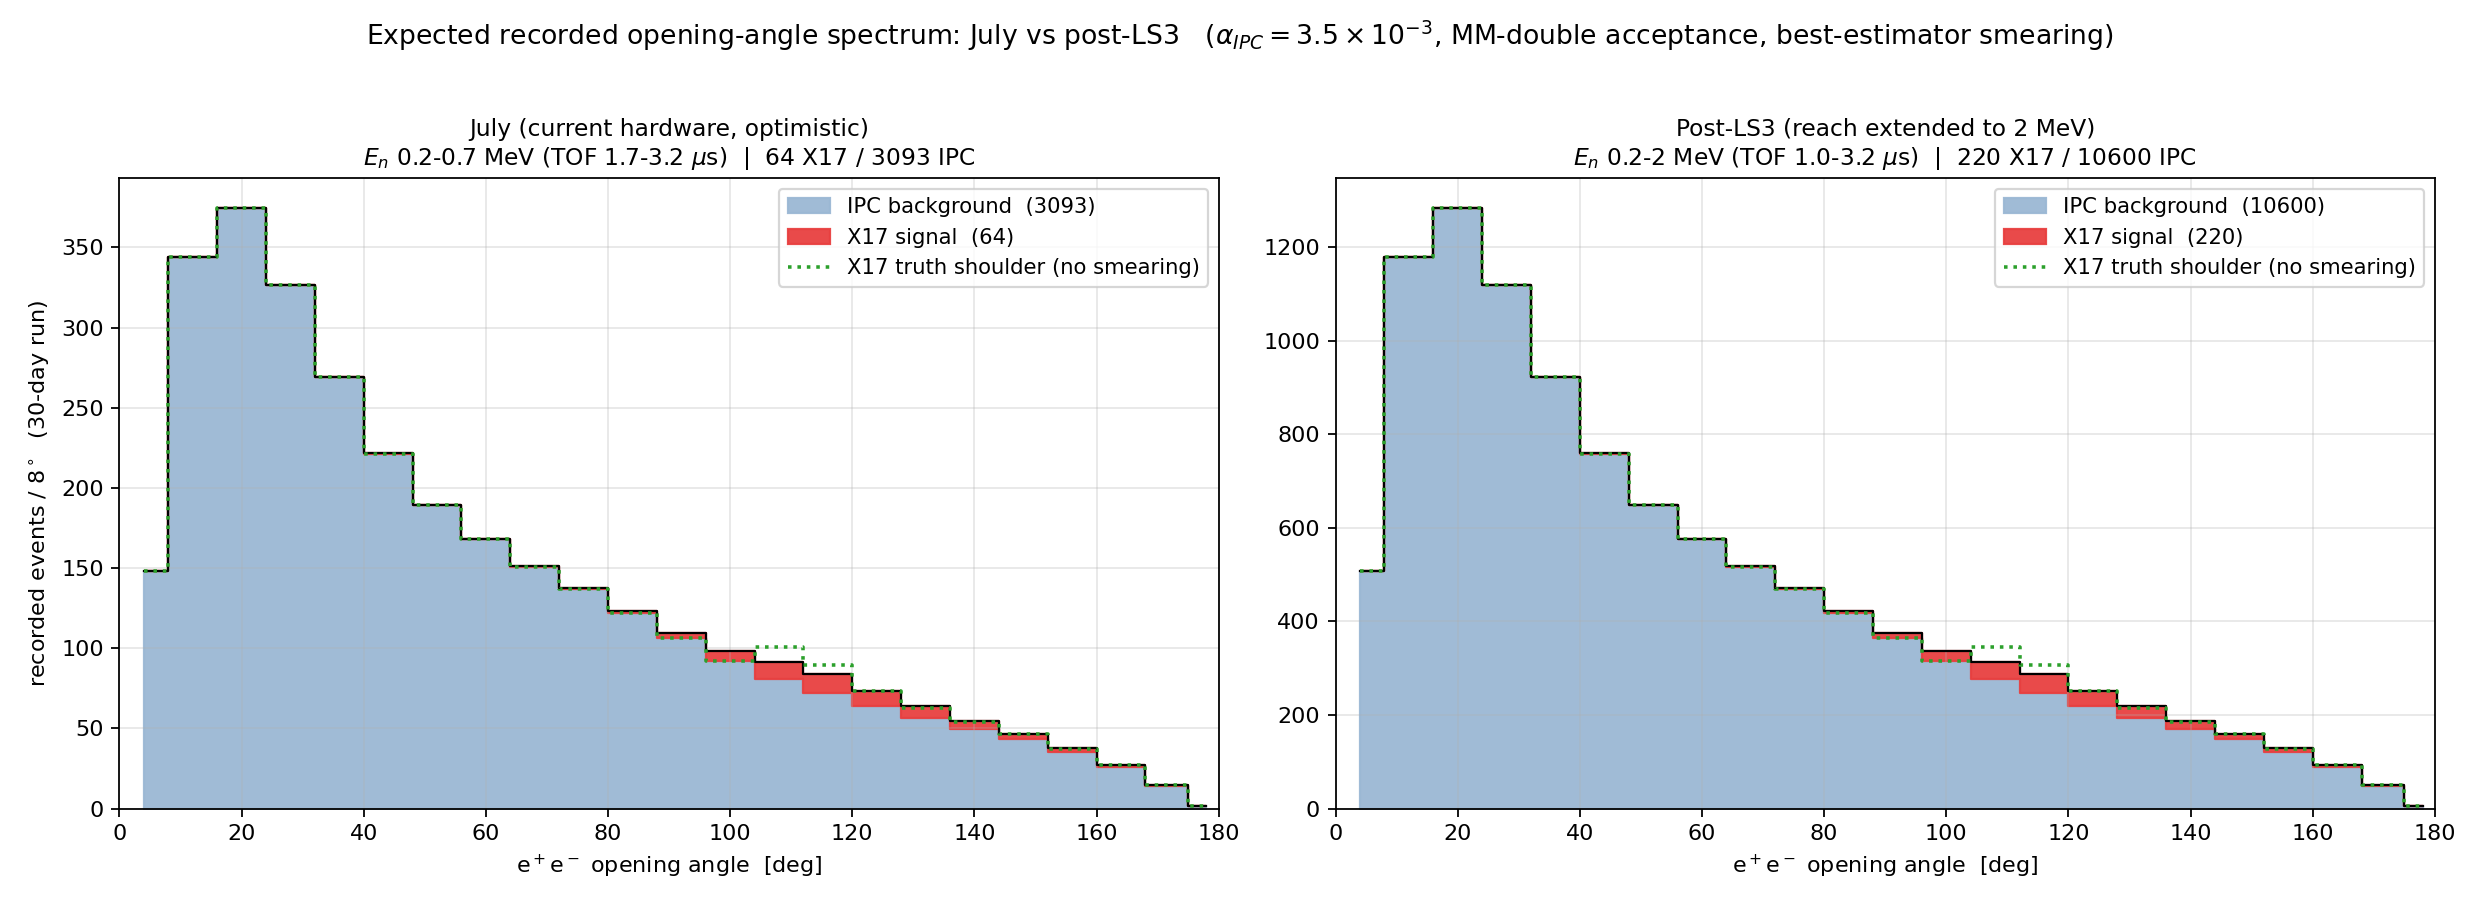
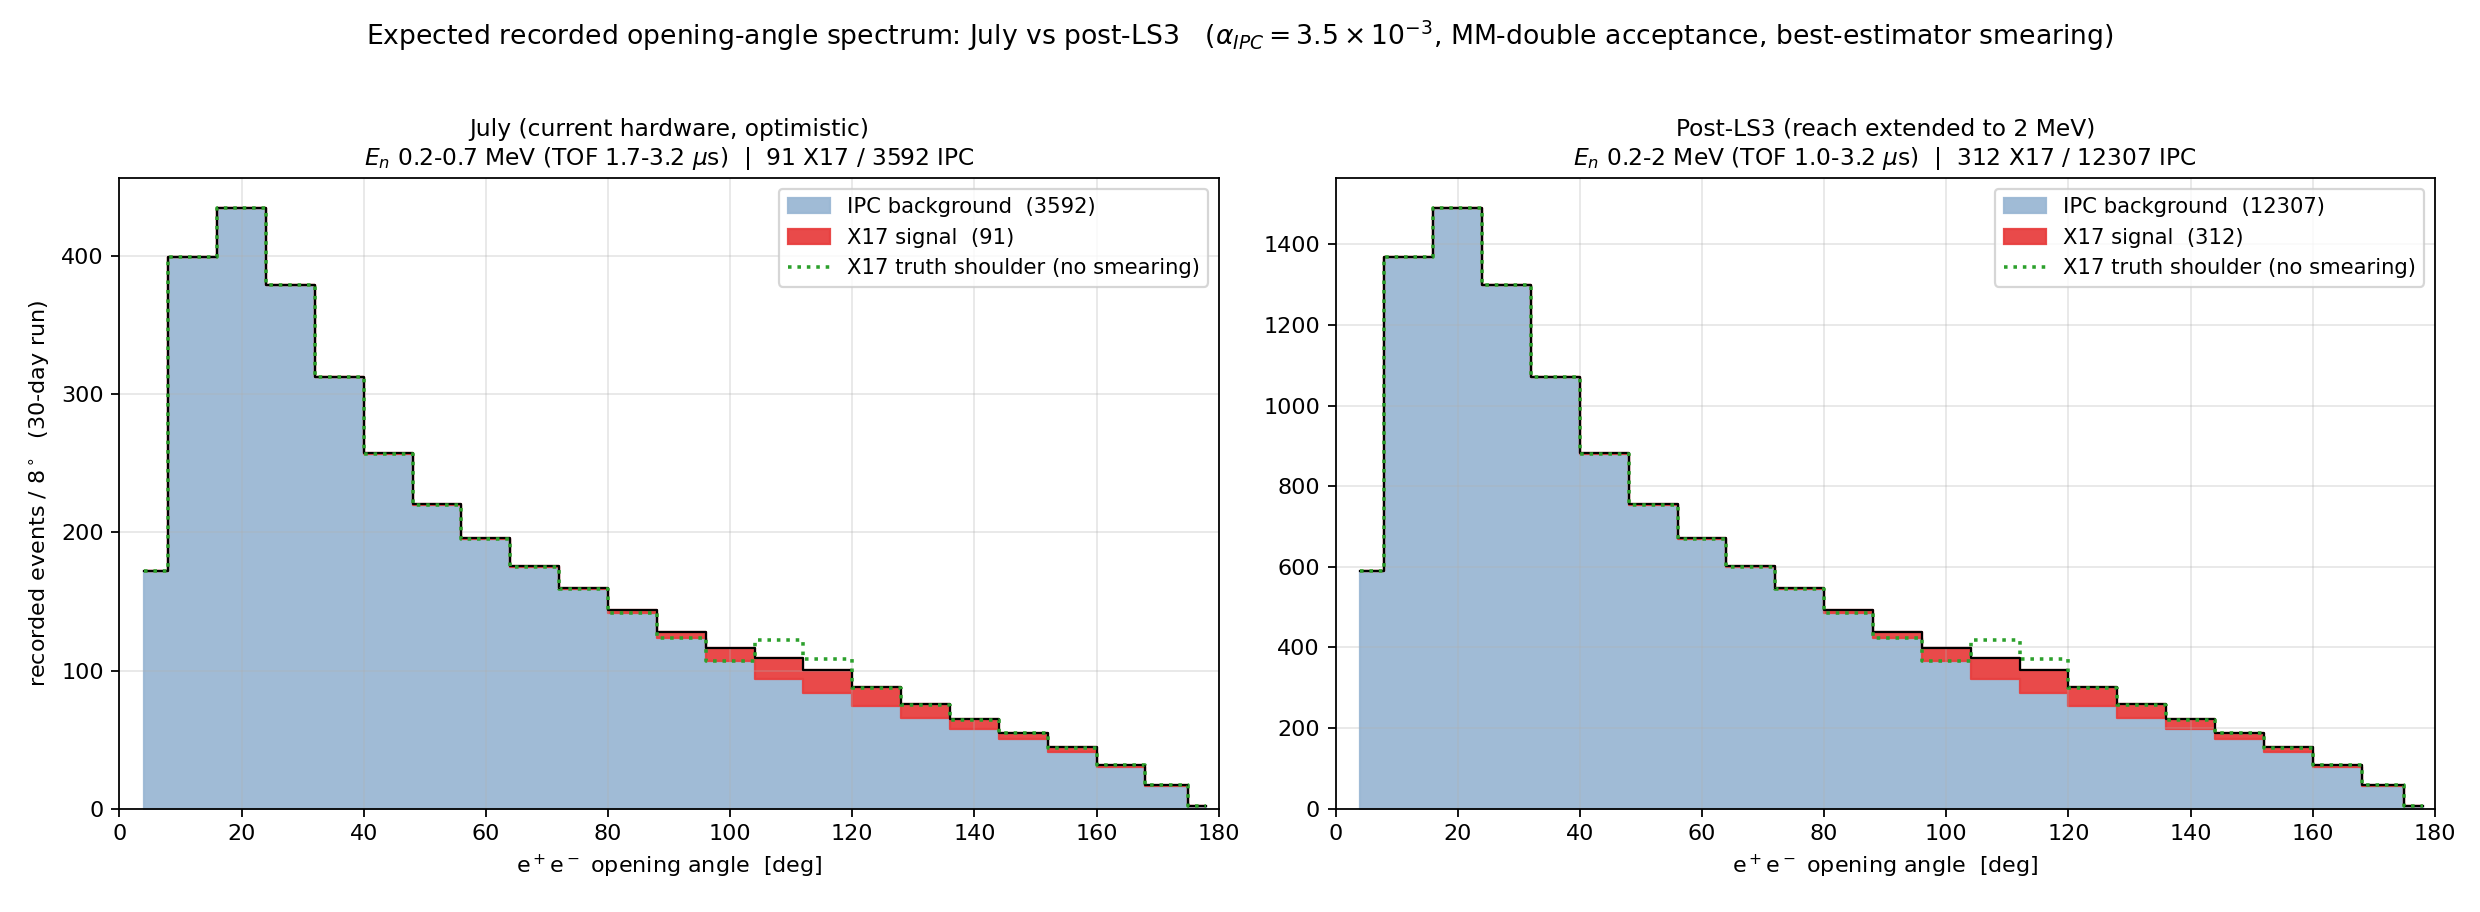
Significance: refresh to nose-first acceptance; propagate to angular note + slides
The template-fit projection uses MM-DOUBLE acceptance (both legs reach a drift
volume), which nose-first is HIGHER, not lower: 27.8/27.4% (X17/IPC) vs
19.6/23.6% pre-flip -- upstream pair vertices make both tracks more likely to
cross a drift gas. This IMPROVES the statistical significance (opposite sign
from the SiPM^plastic trigger, a different acceptance).

- make_slides_figures.py: ACC 0.196/0.236 -> 0.278/0.274; added the Asimov-Z
  computation over the smeared opening-angle templates. Reproduces the prior
  2.6/4.9 sigma with the old ACC (validation); nose-first gives:
    July 0.2-0.7 MeV : Z = 3.5 sigma  (was 2.6)
    LS3  0.2-2  MeV : Z = 6.4 sigma  (was 4.9)   -- x1.31, stat-only.
  Slide figures regenerated with nose yields.
- angular_note.tex: MM-double acceptance + recorded-yield + significance
  updated to nose-first (with alpha convention kept distinct).
- CAMPAIGN_STATUS: MIP calibration, corrected trigger scan, significance.

Caveats carried in the text: the 19.6/23.6 baseline is pre-final-geometry so
x1.31 conflates the geometry update with the flip; the template response is
still pairs-v2; and the IPC-shape systematic still sets the achievable CL.

diff --git a/docs/report/angular_note.tex b/docs/report/angular_note.tex
@@ -39,9 +39,11 @@ $\sim$10\,$\mu$s readout per pulse, from the $\gamma$ flash down to
 $E_n \approx 20$\,keV --- which covers essentially all of the production
 --- and \textbf{every pair in MM geometric acceptance is recorded}
 (``MM double'', both legs reaching a drift volume, same-arm pairs
-included: 19.6\% for X17, 23.6\% for IPC). That gives $\sim$6.4 recorded
-X17/day, $\sim$190 per 30-day run, on a recorded signal-to-IPC ratio of
-$\approx$0.021. The remaining question is whether those events form a
+included: \textbf{27.8\% for X17, 27.4\% for IPC} --- nose-first, 2026-07-26
+[\texttt{analysis/pairs\_nose}]; were 19.6/23.6\% in the pre-flip geometry).
+That gives $\sim$9.1 recorded X17/day, $\sim$270 per 30-day run, on a
+recorded signal-to-IPC ratio of $\approx$0.026 (the upstream nose-first pair
+vertices raise the two-arm acceptance, and X17 more than IPC). The remaining question is whether those events form a
 \emph{visible peak}. For this high-energy measurement the calorimeters are
 taken as saturated by the $\gamma$-flash environment and unusable, so the
 only per-event observable is the $e^+e^-$ \textbf{opening angle measured
@@ -137,8 +139,14 @@ In order of leverage (Part II \S7--9):
   $10^{7}$ events; a template likelihood fit (smeared signal + IPC continuum
   + pile-up backgrounds from the Stage-4 sampler) converts resolution into a
   statistics penalty instead of a veto. The go/no-go number becomes the
-  expected significance of that fit with $\sim$190 signal events per 30 days
-  --- the natural next study, and the machinery exists.
+  expected significance of that fit ($\sim$270 signal events per 30 days at
+  the conservative $\alpha_{\mathrm{IPC}}=2.1\times10^{-3}$, nose-first
+  acceptance). This has now been computed for the standard July/LS3 windows at
+  $\alpha_{\mathrm{IPC}}=3.5\times10^{-3}$: Asimov $Z\approx3.5\sigma$ (July
+  0.2--0.7\,MeV) / $6.4\sigma$ (LS3 0.2--2\,MeV), stat-only, up $\times1.31$
+  from the pre-flip 2.6/4.9$\sigma$ on the higher MM-double acceptance --- with
+  the IPC-shape systematic still setting the achievable CL
+  (\texttt{scripts/make\_slides\_figures.py}).
 \item \textbf{MM-internal quality cuts as an energy proxy.} The
   $30$--$40^{\circ}$ tails come from legs below $\sim$3\,MeV. Without
   calorimetry they can still be tagged inside the MM (track straightness,
@@ -586,7 +594,7 @@ range).
   histogram cap; quoted values there are lower bounds (the conclusion is
   unaffected --- those legs are directionless either way).
 \item \textbf{Yield inputs.} Production 32.4 X17/day ($E_n \gtrsim
-  20$\,keV, MeV-note decades) and MM-double acceptances 19.6\%/23.6\%
+  20$\,keV, MeV-note decades) and MM-double acceptances 27.8\%/27.4\% (nose-first; were 19.6/23.6\%)
   (X17/IPC, pairs-v2), with the inherited assumptions
   $\alpha_{\mathrm{IPC}}=2.1\times10^{-3}$ and X17/IPC $=2.5\%$. The
   10\,$\mu$s-readout scheme also assumes the MMs themselves recover from

diff --git a/scripts/make_slides_figures.py b/scripts/make_slides_figures.py
@@ -12,8 +12,11 @@ Two run scenarios (decided 2026-06-16):
            (recovery ~1.0 us) -> reach to 2 MeV neutrons, ~3.4x the statistics.
 
 Normalisation: alpha_IPC = 3.5e-3 (12C/8Be-anchored), 30-day run, MM-double
-acceptance 19.6% (X17) / 23.6% (IPC).  Recorded yields computed here from the
-raw 714 He3(n,g) energies, so any window is exact.
+acceptance NOSE-FIRST 27.8% (X17) / 27.4% (IPC) (2026-07-26, analysis/pairs_nose;
+was 19.6/23.6 in the 2026-06-18 pre-final-geometry projection).  Recorded yields
+computed here from the raw 714 He3(n,g) energies, so any window is exact.
+Asimov Z (stat-only): July 3.5 sigma, LS3 6.4 sigma (was 2.6/4.9); the higher
+acceptance lifts significance x1.31.  IPC-shape systematic still sets the CL.
 
 Outputs -> docs/slides/figs/ :
   fig_stacked_july.png      stacked smeared e+e- opening-angle spectrum, July
@@ -49,7 +52,8 @@ RESP = REPO / "analysis/pairs_v2/geant4_response.json"
 # ── physics / run constants ──────────────────────────────────────────────────
 ALPHA_IPC = 3.5e-3        # 12C/8Be-anchored IPC coefficient (default)
 BR_X17 = 0.025            # X17 / IPC branching
-ACC_X17, ACC_IPC = 0.196, 0.236   # MM-double geometric acceptance
+ACC_X17, ACC_IPC = 0.278, 0.274   # MM-double acceptance, NOSE-FIRST final geom
+                                  # (analysis/pairs_nose; was 0.196/0.236 pre-final)
 DAYS = 30
 M_N_EV = 939.565e6        # neutron mass [eV/c^2]
 L_M = 19.5                # EAR2 flight path [m]
@@ -257,6 +261,20 @@ def main():
         print(f"  {nm:18s}  X17={y['x17_rec']:6.1f}  IPC={y['ipc_rec']:7.0f}  "
               f"S/B={y['x17_rec']/y['ipc_rec']:.3f}  "
               f"(N_capt={y['n_rad']}, TOF {y['tof_lo']:.2f}-{y['tof_hi']:.2f} us)")
+
+    # Asimov significance (stat-only; IPC-shape systematic NOT included and
+    # dominates the achievable CL) from the binned smeared opening-angle templates
+    def asimov_Z(s, b):
+        m = b > 0
+        return float(np.sqrt(2.0 * np.sum((s[m] + b[m]) * np.log1p(s[m] / b[m]) - s[m])))
+    _fig, _ax = plt.subplots()
+    print("Asimov Z (stat-only, binned profile-likelihood over the smeared templates):")
+    for nm, lo, hi in [("July 0.2-0.7 MeV", 2e5, 7e5), ("LS3 0.2-2 MeV", 2e5, 2e6)]:
+        y = window_yields(E, w, lo, hi)
+        _ax.clear()
+        _, b_, s_ = stacked_panel(_ax, d, y["x17_rec"], y["ipc_rec"])
+        print(f"  {nm:18s}  Z = {asimov_Z(s_, b_):.2f} sigma")
+    plt.close(_fig)
     print(f"figures written to {OUT}")
 
 

diff --git a/CAMPAIGN_STATUS.md b/CAMPAIGN_STATUS.md
@@ -36,31 +36,42 @@ nose-first** (banner + Parts I–III, all figures regenerated):
   (leg-e⁻ crossing drift gas 52% → 58%).
 - Pairs acceptance/mass/angle refreshed (`analysis/pairs_nose/pairs_nose.pdf`).
 
-**Thermal-gate trigger scan re-run nose-first (2026-07-25)** →
-`analysis/trigger_thermal_nose/` (20 signal + 60 thermal + 50 epi files; same
-mu- MIP calibration via new `--mip-mev`, so directly comparable). **Signal
-efficiency AND background both drop ~proportionally, so the statistical
-sensitivity is ~unchanged:**
-| trigger | ε(X17) valve→nose | pair-tag bg valve→nose |
-|---|---|---|
-| 2 full legs | 3.1% → **2.2%** (×0.70) | 1.9 → 1.1 /pulse |
-| 2 SiPM + ≥1 confirm | 10.9% → **8.3%** (×0.76) | 21 → 11 /pulse |
-| SiPM-only | 15.5% → **12.3%** (×0.79) | 68 → 35 /pulse |
-ε drops ×0.75 (upstream pair vertices → lower 2-arm acceptance), bg drops
-×0.52 (Al capture ×0.577); FOM ε/√bg is **+2%** (0.0385→0.0393 at the confirm
-point). Net: the nose-first flip is **~neutral** for the significance
-projection (which is IPC-shape-systematic-dominated anyway).
+**2 cm plastic MIP calibration — measured (2026-07-26)**, resolving the
+4.33 (2.5 cm) vs 3.47 (linear-scaled) ambiguity. A 20k mu- run through arm D
+gives **SiPM 0.475, plastic 3.349, LS 6.120 MeV** (`analysis/mip_2cm/`). The
+old trigger scans used 4.334 (2.5 cm) → thresholds ~23% too strict; leg
+analyses used 3.467 (~3.5% high, cancels for '0.5 MIP each', so leg numbers
+stand within ~2%). All analysis MIP constants updated to the measured values.
 
-Also new: **trigger provenance** (`analysis/trigger_provenance/`, 2026-07-24) —
+**Thermal-gate trigger scan re-run nose-first, correct MIP (2026-07-26)** →
+`analysis/trigger_thermal_nose/` (20 signal + 60 thermal + 50 epi). The pair-tag
+**efficiency ceilings** (low-threshold, MIP-robust) valve→nose:
+| trigger | ε(X17) valve→nose |
+|---|---|
+| 2 full legs | 3.1% → **2.2%** (×0.70) |
+| 2 SiPM + ≥1 confirm | 10.9% → **8.3%** (×0.76) |
+| SiPM-only | 15.5% → **12.3%** (×0.79) |
+The SiPM∧plastic *trigger* ε drops ×0.75 (upstream pair vertices → lower
+2-arm plastic reach), Al-capture bg drops ×0.52; FOM ε/√bg ~neutral.
+
+**Significance — the MM-double picture is the opposite and it IMPROVES.**
+The template-fit projection uses MM-**double** acceptance (both legs reach a
+drift volume), which nose-first is **higher** (27.8/27.4% vs 19.6/23.6%):
+upstream vertices make both tracks more likely to cross a drift gas. Asimov Z
+(stat-only, `scripts/make_slides_figures.py`): **July 2.6→3.5σ, LS3 4.9→6.4σ**
+(×1.31). Caveat: the 19.6/23.6 baseline is pre-final-geometry, so ×1.31
+conflates the geometry update + the flip; and the IPC-shape systematic still
+sets the real CL.
+
+Also: **trigger provenance** (`analysis/trigger_provenance/`, 2026-07-24) —
 what fires the trigger vs the Micromegas. 122 legs/pulse @ 0.5 MIP, 97% Al γ;
 MM tags 61% of the background vs 100% of signal (~39% MM-blind, born in the
 SiPM bar/PCB downstream of the mesh).
 
-**Still stale:** `docs/report/*` and the thermal/MeV notes (numbers, not yet
-propagated); the July/LS3 template-fit significance projection should be
-re-run with the nose-first ε + bg above (expected ~neutral). Open cleanup: a
-proper 2 cm plastic muon MIP calibration (trigger scan uses 4.33 MeV/2.5 cm,
-leg analysis uses 3.47 MeV/2 cm — reconcile).
+**Still stale:** `docs/report/thermal_note.tex` + `mev_note.tex` bodies (valve
+numbers inline; `angular_note.tex` acceptance/significance updated 2026-07-26).
+Slides regenerated with nose acceptance (`make_slides_figures.py`); the
+`build_slides.py` deck prose not yet swept.
 
 Not re-run (closed cross-checks): `--no-al` and the γ-cut scans — 100 µm is
 settled. The conv-pair study reuses `neutrons_thermal_trig_2cm_nose`, since
